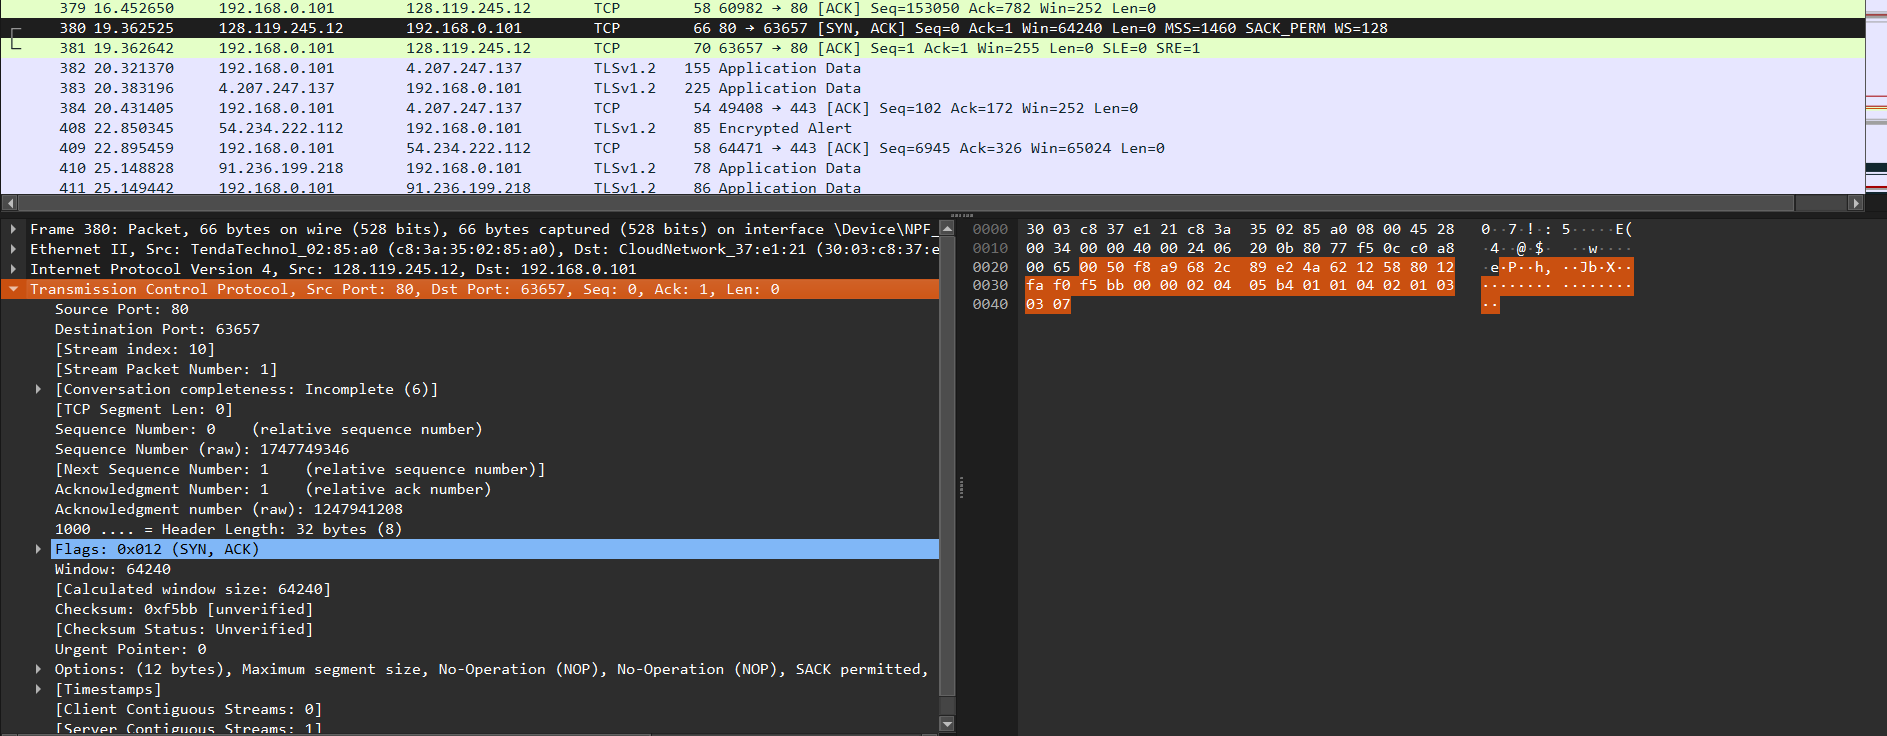
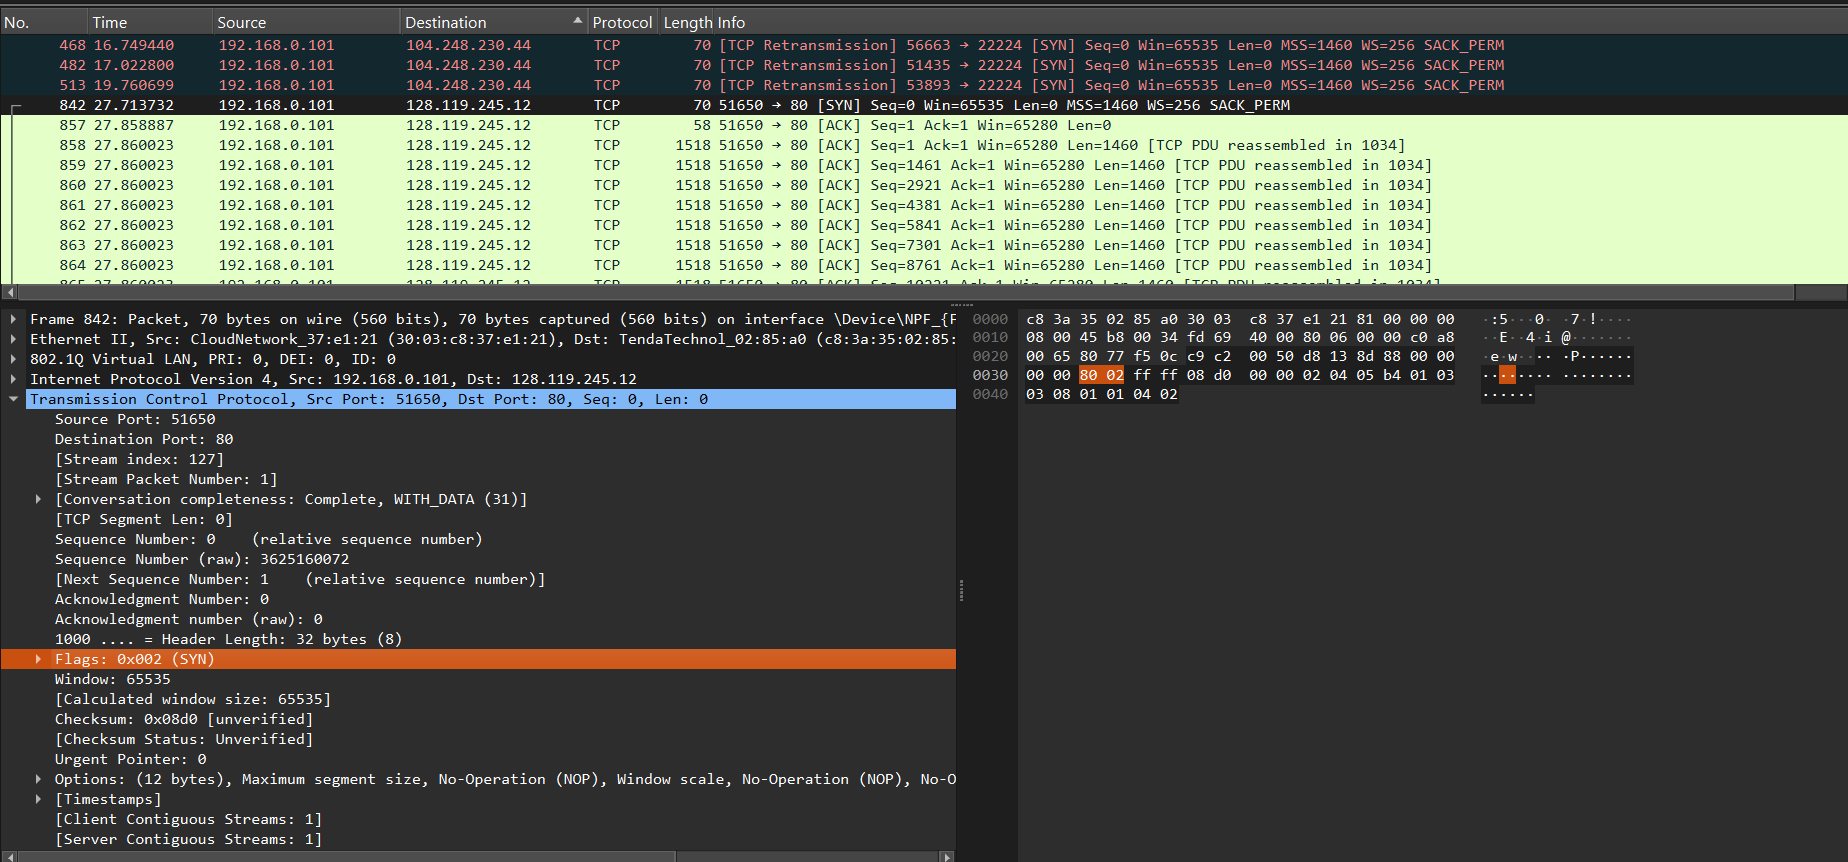
add lab

diff --git a/lab07/client.py b/lab07/client.py
@@ -1,0 +1,32 @@
+from socket import *
+import time
+
+SERVER_HOST = "127.0.0.1"
+SERVER_PORT = 12000
+
+client_socket = socket(AF_INET, SOCK_DGRAM)
+
+client_socket.settimeout(1.0)
+
+for sequence_number in range(1, 11):
+    send_time = time.time()
+
+    message = f"Ping {sequence_number} {send_time}"
+
+    try:
+        client_socket.sendto(message.encode(), (SERVER_HOST, SERVER_PORT))
+
+        response, server_address = client_socket.recvfrom(1024)
+
+        receive_time = time.time()
+        rtt = receive_time - send_time
+
+        print(f"Received from server: {response.decode()}")
+        print(f"RTT: {rtt:.6f} seconds")
+        print()
+
+    except timeout:
+        print(f"Ping {sequence_number}: Request timed out")
+        print()
+
+client_socket.close()

diff --git a/lab07/server.py b/lab07/server.py
@@ -1,0 +1,23 @@
+from socket import *
+import random
+
+SERVER_HOST = "127.0.0.1"
+SERVER_PORT = 12000
+
+server_socket = socket(AF_INET, SOCK_DGRAM)
+server_socket.bind((SERVER_HOST, SERVER_PORT))
+
+print(f"Ping Server is running on {SERVER_HOST}:{SERVER_PORT}")
+
+while True:
+    message, client_address = server_socket.recvfrom(1024)
+
+    if random.random() < 0.2:
+        print(f"Packet from {client_address} lost")
+        continue
+
+    modified_message = message.decode().upper()
+    server_socket.sendto(modified_message.encode(), client_address)
+
+    print(f"Received from {client_address}: {message.decode()}")
+    print(f"Sent back: {modified_message}")

diff --git a/lab07/lab07.md b/lab07/lab07.md
@@ -20,45 +20,46 @@
    файл серверу gaia.cs.umass.edu? Для ответа на вопрос, возможно, проще выбрать http-сообщение
    и рассмотреть информацию TCP-пакета, используемого для передачи этого http-сообщения, 
    в окне деталей заголовка пакета.
-   - IP-адрес: 192.168.0.101, TCP-порт: 63657
-2. Каков IP-адрес у сервера gaia.cs.umass.edu? Каковы номера портов для отправки и приема
-   TCP-сегментов этого соединения?
+   - IP-адрес: 192.168.0.101, TCP-порт: 51650
+2. Каков IP-адрес у сервера gaia.cs.umass.edu? Каковы номера портов для отправки и приема TCP-сегментов этого соединения?
    - IP-адрес сервера: 128.119.245.12
-   - серверный порт: 80, клиентский порт: 63657
-3. Какой порядковый номер у SYN TCP-сегмента, который используется для установления
-   TCP-соединения между компьютером клиента и сервером gaia.cs.umass.edu? Как
-   определяется, что это именно SYN-сегмент?
-   - 
-   - 
-4. Какой порядковый номер у SYNACK-сегмента, отправленного сервером gaia.cs.umass.edu
-   на компьютер клиента в ответ на SYN-сегмент? Какое значение хранится в поле
-   подтверждения в SYNACK-сегменте? Как сервер gaia.cs.umass.edu определил это значение?
-   Как определяется, что это именно SYNACK-сегмент?
-   - порядковый номер: Seq = 0
-   - значение подтверждения: Ack = 1
+   - серверный порт: 80, клиентский порт: 51650
+3. Какой порядковый номер у SYN TCP-сегмента, который используется для установления TCP-соединения между компьютером клиента и сервером gaia.cs.umass.edu? Как определяется, что это именно SYN-сегмент?
+   - Относительный порядковый номер: Seq = 0, абсолютный: Seq = 3625160072
+   - Это именно SYN-сегмент, потому что в поле TCP Flags установлен флаг: Flags: 0x002 (SYN)
+4. Какой порядковый номер у SYNACK-сегмента, отправленного сервером gaia.cs.umass.edu на компьютер клиента в ответ на SYN-сегмент? Какое значение хранится в поле подтверждения в SYNACK-сегменте? Как сервер gaia.cs.umass.edu определил это значение? Как определяется, что это именно SYNACK-сегмент?
+   - Относительный порядковый номер сервера: Seq = 0, абсолютный: Seq = 1078300629
+   - Поле подтверждения: относительное значение: Ack = 1, абсолютное: Ack = 3625160073
    - сервер подтверждает клиентский SYN, у которого начальный sequence number был 0. SYN занимает один номер последовательности, поэтому сервер отвечает Ack = 0 + 1 = 1
    - Это именно SYNACK-сегмент, потому что у него в поле флагов указано: Flags: 0x012 (SYN, ACK)
 5. Какой порядковый номер у TCP-сегмента, содержащего команду POST протокола HTTP?
    (для нахождения команды POST вам потребуется проникнуть внутрь поля содержимого
    пакета в нижней части окна Wireshark, чтобы найти сегмент, в поле DATA которого
    хранится значение POST)
-   - <!-- todo -->
+   - Относительный порядковый номер: Seq = 1, абсолютный: Seq = 3625160073
 6. Рассмотрите TCP-сегмент, содержащий команду POST протокола HTTP, как первый TCP-сегмент 
    соединения. Какие порядковые номера у первых шести сегментов TCP-соединения 
    (включая сегмент, содержащий команду POST протокола HTTP)? Когда был
    отправлен каждый сегмент? Когда был получен ACK-пакет для каждого сегмента?
    Покажите разницу между тем, когда каждый TCP-сегмент был отправлен и когда было
    получено каждое подтверждение, чему равно значение RTT для каждого из 6 сегментов?
-   - <!-- todo -->
-   - <!-- todo -->
-   - <!-- todo -->
-   - <!-- todo -->
+   - Порядковые номера первых шести TCP-сегментов: первый, содержащий команду POST, имеет Seq = 1; второй - Seq = 1461; третий - Seq = 2921; четвёртый - Seq = 4381; пятый - Seq = 5841; шестой - Seq = 7301.
+   - Все сегменты были отправлены в 27.860023с от начала захвата.
+   - Все ACK-пакеты для этих сегментов были получены в 28.009755с.
+   - Разница между временем отправки каждого TCP-сегмента и временем получения подтверждения для каждого из первых шести сегментов равна 28.009755 − 27.860023 = 0.149732с. Тогда RTT для каждого сегмента равен 0.149732с.
 7. Чему равна пропускная способность (количество байтов, передаваемых в единицу
    времени) для этого TCP-соединения? Объясните, как вы получили это значение.
-   - <!-- todo -->
-   - <!-- todo -->
+   - Пропускная способность TCP-соединения при передаче POST-запроса равна примерно 248562 байт/с. 
+   - Это значение получено делением количества переданных TCP-данных 152888 байт на время между отправкой первого POST-сегмента и получением ACK, подтверждающего весь POST-запрос: 0.615090 с
 
 <img src="images/1.png" />
+<img src="images/2.png" />
+<img src="images/3.png" />
+<img src="images/4.png" />
+<img src="images/5.png" />
+<img src="images/6.png" />
+<img src="images/7.png" />
+<img src="images/8.png" />
 
 ### Работа с Time-Sequence-Graph (Stevens) (2 балла)
 Time-Sequence-Graph (Stevens) (Временная шкала (Стивенса)) – одна из графических утилит
@@ -94,6 +95,8 @@ todo
 Если пакет прибывает, то сервер просто изменяет символы входящего сообщения на заглавные и
 отправляет их обратно клиенту. Серверный код должен моделировать 20% потерю пакетов.
 
+<img src="images/10.png" />
+
 ### Б. Клиентская часть (2 балла)
 Клиент должен отправить 10 эхо-запросов серверу. Поскольку UDP является ненадежным с точки
 зрения доставки протоколом, то пакет, отправленный от клиента к серверу или наоборот, может
@@ -117,7 +120,7 @@ todo
 Сделайте скриншоты, подтверждающие корректную работу вашей программы пингования со стороны клиента.
 
 #### Демонстрация работы
-todo
+<img src="images/9.png" />
 
 ### В. Вывод в формате ping (2 балла)
 Версия клиента из предыдущей части (Б) вычисляет время оборота для каждого пакета и выводит
